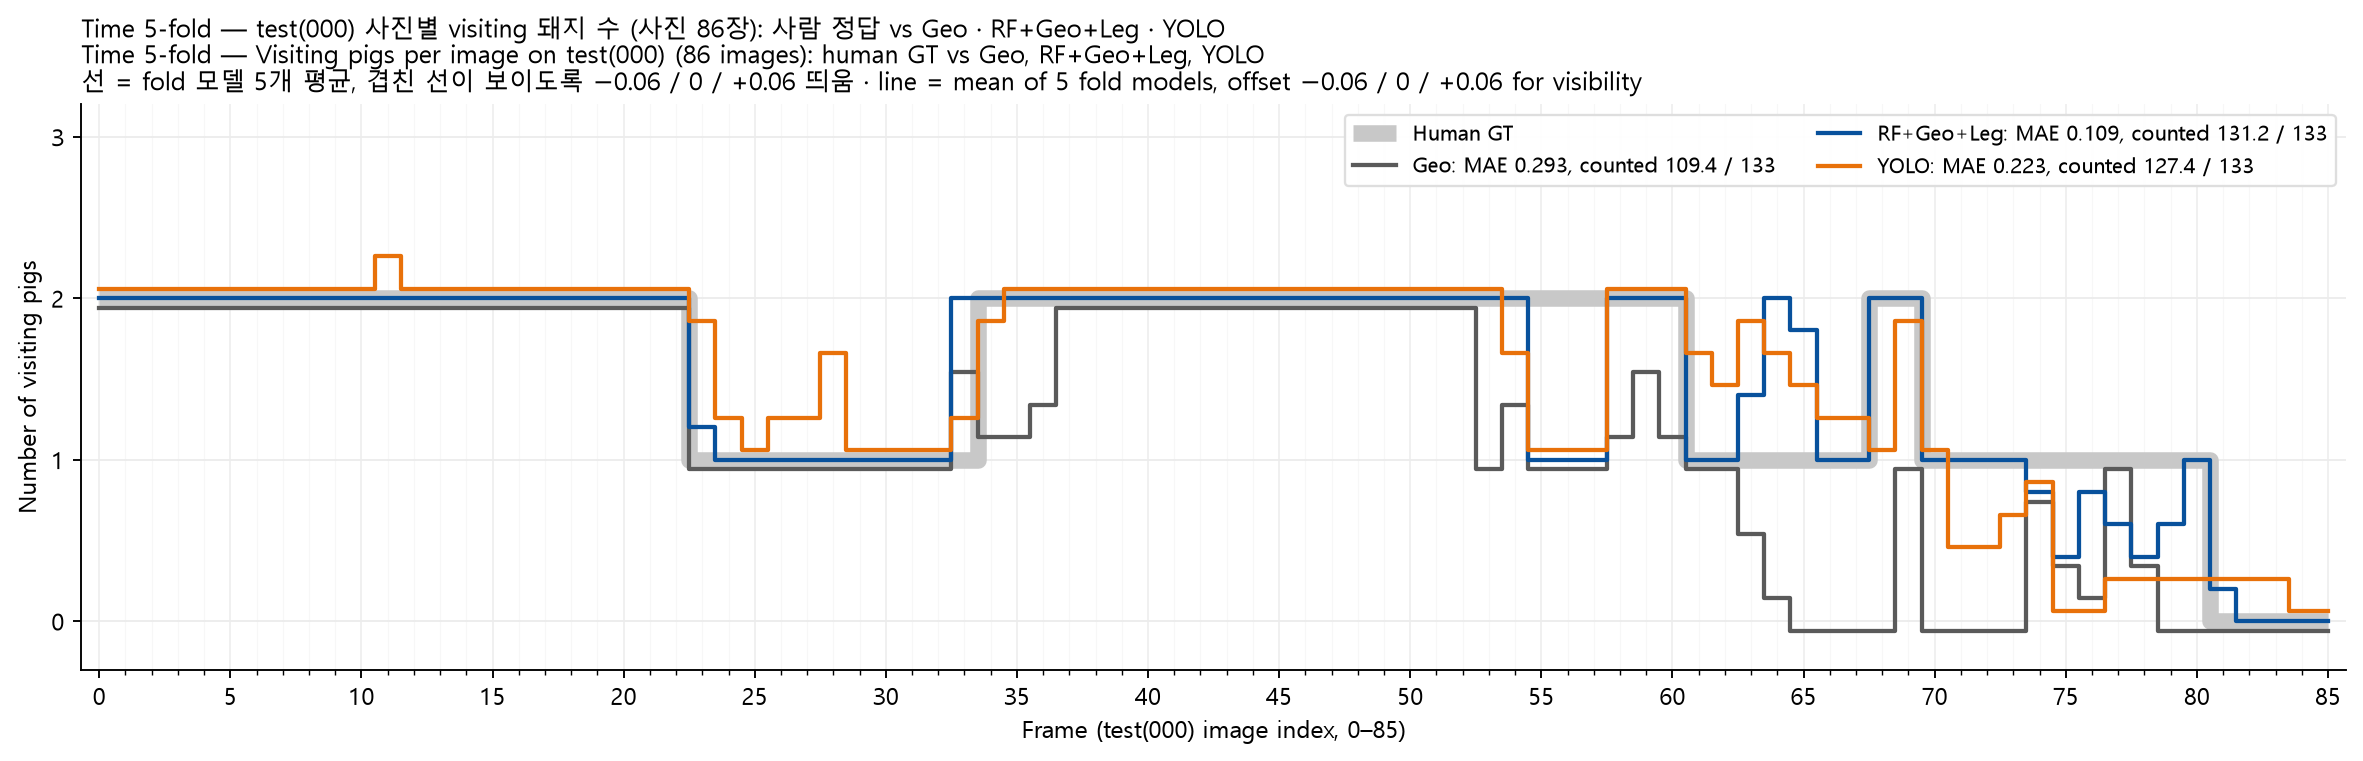
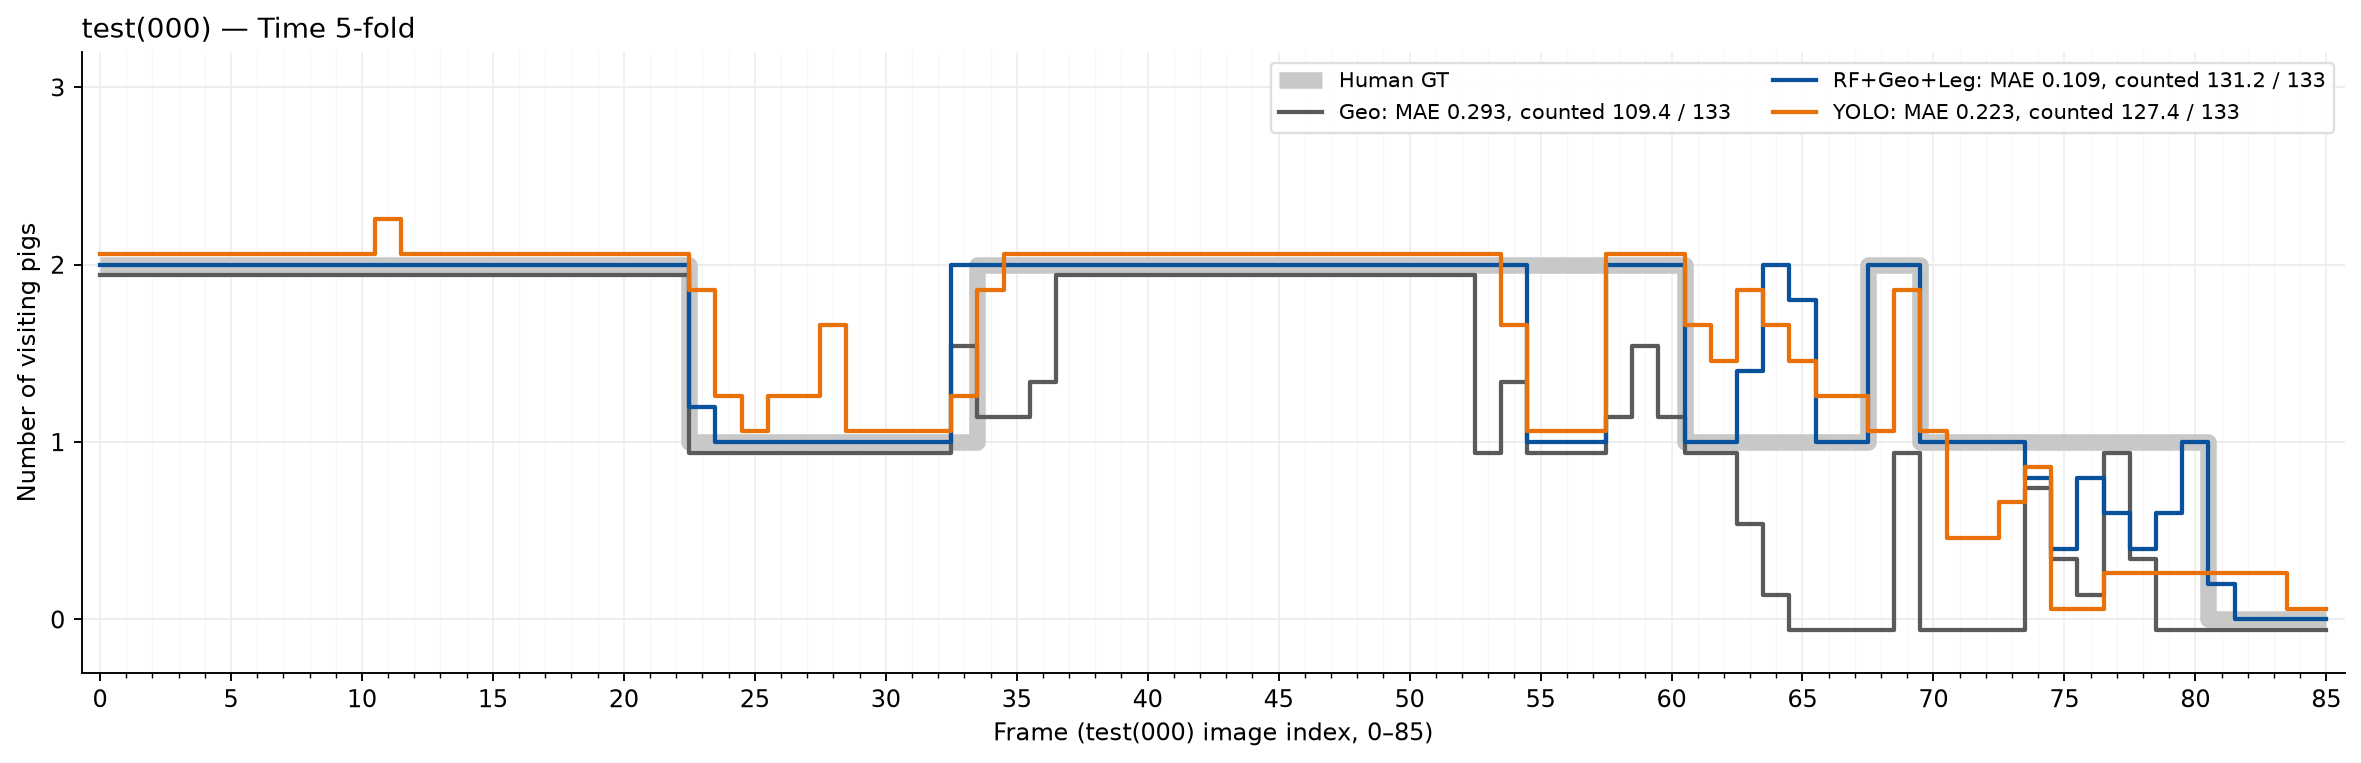
Graphs H, I, J: short titles only (test(000) / test(000) - <split>); explanations stay in PAPER captions

diff --git a/counting/scripts/plot_counts_3methods.py b/counting/scripts/plot_counts_3methods.py
@@ -29,8 +29,6 @@ METHODS = [("geo", "Geo"), ("rf_geo_leg", "RF+Geo+Leg"), ("yolo", "YOLO")]
 SCHEMES = [("rk5", "Random 5-fold"), ("k5", "Time 5-fold")]
 COLOR = {"gt": "#000000", "geo": "#5a5a5a", "rf_geo_leg": "#08519c", "yolo": "#e8710a"}
 GT_FILL = "#ededed"
-plt.rcParams["font.family"] = ["Malgun Gothic", "DejaVu Sans"]   # 제목 한국어 + 영어 (Windows 맑은 고딕)
-plt.rcParams["axes.unicode_minus"] = False
 FPS = 24          # 000 = 1분 샘플 영상, 프레임 번호 0~1440 → 1440 / 60 s = 24 fps로 환산 (초 = 프레임 번호 / 24)
 plt.rcParams.update({"font.size": 10, "axes.titlesize": 11})
 
@@ -102,12 +100,9 @@ def plot_h():
     handles = [Patch(fc=GT_FILL, ec=COLOR["gt"], lw=1.0, label="Human GT"),
                *[Line2D([], [], color=COLOR[m], lw=2.0, label=f"{lab} (mean of 5 folds)") for m, lab in METHODS],
                Patch(fc="#9e9e9e", alpha=0.35, lw=0, label="min–max of 5 folds")]
-    fig.legend(handles=handles, loc="upper center", ncol=5, frameon=False, fontsize=9.5, bbox_to_anchor=(0.5, 0.93))
-    fig.suptitle("test(000) 사진별 visiting 돼지 수: 사람 정답 vs Geo · RF+Geo+Leg · YOLO\n"
-                 "Visiting pigs per image on test(000): human GT vs Geo, RF+Geo+Leg, YOLO\n"
-                 "(위: 사진별 마릿수, 아래: 평균 오차 = 예측 − 정답 / upper: count per image, lower: mean error = predicted − GT)",
-                 fontsize=12, y=1.0)
-    fig.subplots_adjust(top=0.875)
+    fig.legend(handles=handles, loc="upper center", ncol=5, frameon=False, fontsize=9.5, bbox_to_anchor=(0.5, 0.955))
+    fig.suptitle("test(000)", fontsize=13, y=0.99)
+    fig.subplots_adjust(top=0.89)
     fig.savefig(FS / "graph_H_counts_3methods.png", dpi=170, bbox_inches="tight")
     plt.close(fig)
 
@@ -145,10 +140,7 @@ def plot_i():
         ax.spines[["top", "right"]].set_visible(False)
     axes[0].set_ylabel("Cumulative count")
     axes[0].legend(frameon=False, fontsize=9, loc="upper left")
-    fig.suptitle("test(000) 60초 누적 visiting 돼지 수: 사람 정답 vs Geo · RF+Geo+Leg · YOLO "
-                 "(선 = fold 모델 5개 평균, 띠 = 최소~최대)\n"
-                 "Cumulative visiting count over test(000): human GT vs Geo, RF+Geo+Leg, YOLO "
-                 "(line = mean of 5 fold models, band = min–max)", fontsize=11.5)
+    fig.suptitle("test(000)", fontsize=13)
     fig.tight_layout()
     fig.subplots_adjust(right=0.9, wspace=0.28)
     fig.savefig(FS / "graph_I_cumulative_3methods.png", dpi=170, bbox_inches="tight")
@@ -181,10 +173,7 @@ def plot_j():
         ax.spines[["top", "right"]].set_visible(False)
         ax.legend(frameon=True, framealpha=0.95, edgecolor="#dddddd", fontsize=9, loc="upper right", ncol=2)
     axes[-1].set_xlabel("Time in test(000) video (s)")
-    fig.suptitle("test(000) 사진별 visiting 돼지 수: 사람 정답 vs Geo · RF+Geo+Leg · YOLO\n"
-                 "Visiting pigs counted per image on test(000): human GT vs Geo, RF+Geo+Leg, YOLO\n"
-                 "(선 = fold 모델 5개 평균, 겹친 선이 보이도록 −0.06 / 0 / +0.06 띄움 / "
-                 "line = mean of 5 fold models, offset −0.06 / 0 / +0.06 for visibility)", fontsize=11.5)
+    fig.suptitle("test(000)", fontsize=13)
     fig.tight_layout()
     fig.savefig(FS / "graph_J_counts_overlay.png", dpi=170, bbox_inches="tight")
     plt.close(fig)
@@ -223,13 +212,7 @@ def plot_j_single(axis="sec"):
         ax.set_axisbelow(True)
         ax.spines[["top", "right"]].set_visible(False)
         ax.legend(frameon=True, framealpha=0.95, edgecolor="#dddddd", fontsize=9, loc="upper right", ncol=2)
-        span = "86 images" if axis == "frame" else "60-s video"
-        span_ko = "사진 86장" if axis == "frame" else "60초 영상"
-        ax.set_title(f"{slab} — test(000) 사진별 visiting 돼지 수 ({span_ko}): 사람 정답 vs Geo · RF+Geo+Leg · YOLO\n"
-                     f"{slab} — Visiting pigs per image on test(000) ({span}): human GT vs Geo, RF+Geo+Leg, YOLO\n"
-                     "선 = fold 모델 5개 평균, 겹친 선이 보이도록 −0.06 / 0 / +0.06 띄움 · "
-                     "line = mean of 5 fold models, offset −0.06 / 0 / +0.06 for visibility",
-                     fontsize=10.5, loc="left")
+        ax.set_title(f"test(000) — {slab}", fontsize=12, loc="left")
         fig.tight_layout()
         suffix = "_frames" if axis == "frame" else ""
         fig.savefig(FS / f"graph_J_{'random' if p == 'rk5' else 'time'}_5fold{suffix}.png", dpi=170, bbox_inches="tight")
